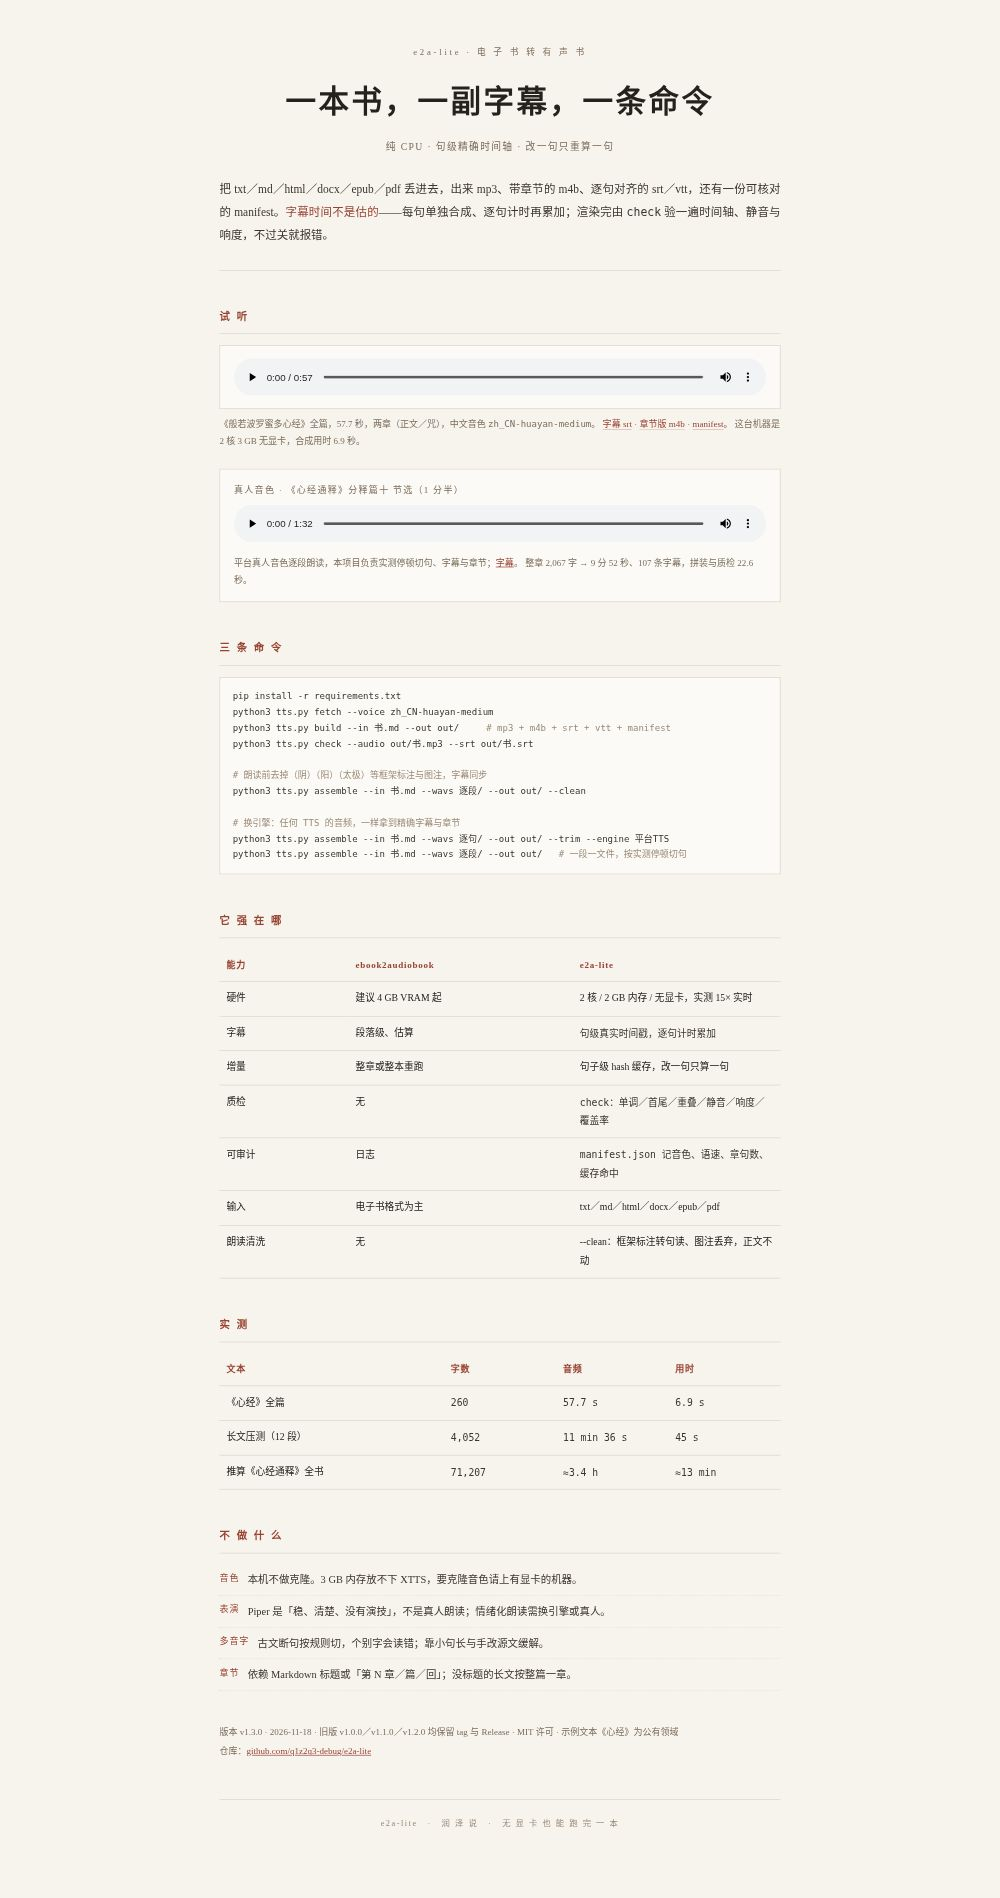
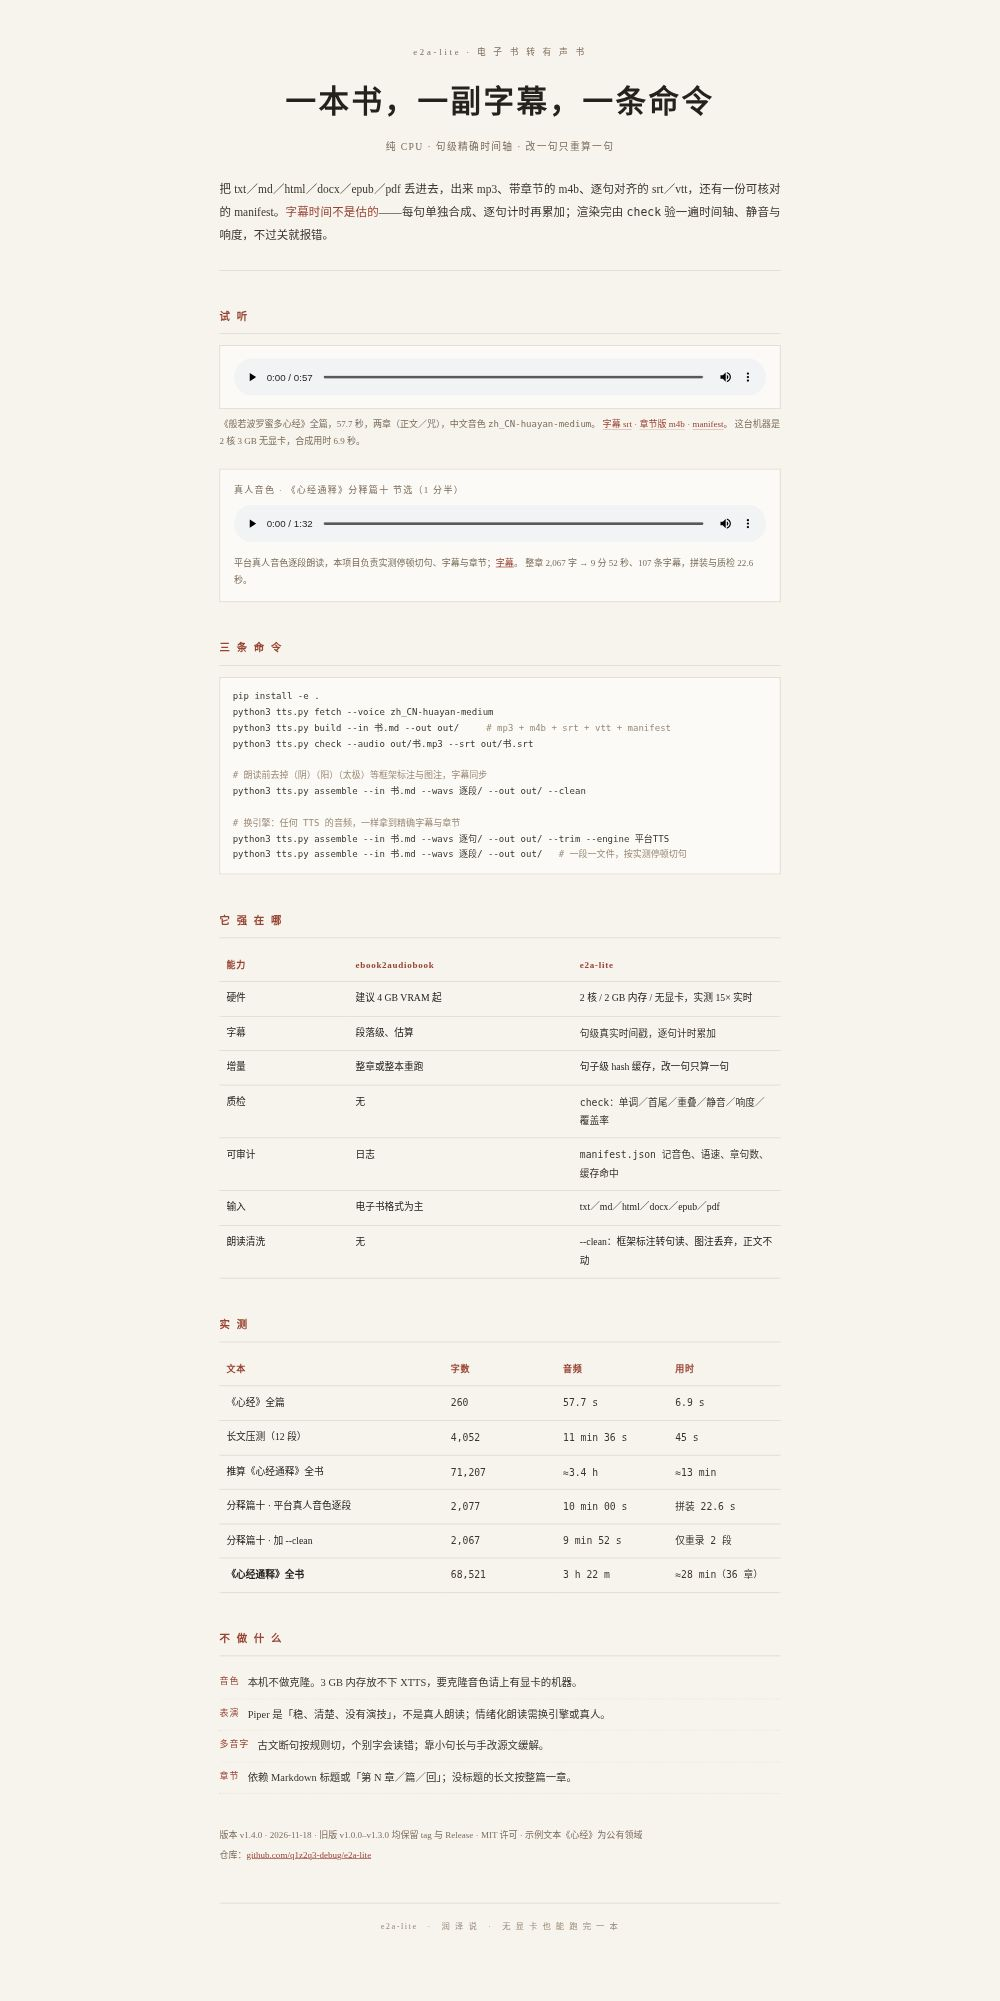
v1.5.0：新增 Edge 神经音色引擎
- 新子命令 edge：逐句合成、逐句真实时长、无 100 秒截断（平台 TTS 在 100s 处切半句，已弃用该路线）
- 四音色别名 + --rate 语速
- 四重退避重试、补静音兜底、纯符号句跳过、按句缓存断点续跑
- 实测《心经通释》2,815 句 / 4h29m / 35 章 / 响度 -17.9 dB

diff --git a/docs/index.html b/docs/index.html
@@ -103,7 +103,8 @@ python3 tts.py assemble --in 书.md --wavs 逐段/ --out out/   <span class="c">
     <tr><td>推算《心经通释》全书</td><td class="num">71,207</td><td class="num">≈3.4 h</td><td class="num">≈13 min</td></tr>
     <tr><td>分释篇十 · 平台真人音色逐段</td><td class="num">2,077</td><td class="num">10 min 00 s</td><td class="num">拼装 22.6 s</td></tr>
     <tr><td>分释篇十 · 加 --clean</td><td class="num">2,067</td><td class="num">9 min 52 s</td><td class="num">仅重录 2 段</td></tr>
-    <tr><td><b>《心经通释》全书</b></td><td class="num">68,521</td><td class="num">3 h 22 m</td><td class="num">≈28 min（36 章）</td></tr>
+    <tr><td>《心经通释》全书 · Piper</td><td class="num">68,521</td><td class="num">3 h 22 m</td><td class="num">≈28 min（36 章）</td></tr>
+    <tr><td><b>《心经通释》全书 · Edge 神经音色</b></td><td class="num">63,894</td><td class="num">4 h 29 m</td><td class="num">≈20 min（35 章）</td></tr>
   </table>
 
   <h2>不 做 什 么</h2>
@@ -114,7 +115,7 @@ python3 tts.py assemble --in 书.md --wavs 逐段/ --out out/   <span class="c">
     <li><i>章节</i>依赖 Markdown 标题或「第 N 章／篇／回」；没标题的长文按整篇一章。</li>
   </ul>
 
-  <div class="meta">版本 v1.4.0 · 2026-11-18 · 旧版 v1.0.0–v1.3.0 均保留 tag 与 Release · MIT 许可 · 示例文本《心经》为公有领域<br>
+  <div class="meta">版本 v1.5.0 · 2026-11-18 · 旧版 v1.0.0–v1.3.0 均保留 tag 与 Release · MIT 许可 · 示例文本《心经》为公有领域<br>
     仓库：<a href="https://github.com/q1z2q3-debug/e2a-lite" style="color:#994433">github.com/q1z2q3-debug/e2a-lite</a></div>
 
   <div class="foot">e2a-lite　·　润 泽 说　·　无 显 卡 也 能 跑 完 一 本</div>

diff --git a/tts.py b/tts.py
@@ -22,9 +22,10 @@ import shutil
 import subprocess
 import sys
 import wave
+from concurrent.futures import ThreadPoolExecutor, as_completed
 from pathlib import Path
 
-VERSION = "1.4.0"
+VERSION = "1.5.0"
 APP = "e2a-lite"
 SENT_RE = re.compile(r"[^。！？；…!?\n]+[。！？；…!?]?")
 CHAPTER_RE = re.compile(r"^(?:#{1,4}\s+.+|第[一二三四五六七八九十百零〇0-9]+[章篇回节部].*)$")
@@ -173,10 +174,20 @@ def clean_line(text: str) -> str:
     只动三类东西：`佛说A（阴）` 这类阴阳太极标注（改为句读）、`【…】` 降为普通文字、
     `*图…` 图注整段丢弃；正文一字不改。
     """
-    s = _FIG.sub("", text)
+    if "编注" in text[:12] or "**编注**" in text:
+        return ""  # 编辑说明不读
+    s = _FIG.sub("", text)  # 图注先整段丢弃
+    if not s.strip():
+        return ""
+    if re.match(r"^\s*!?\[图", text) or re.search(r"\]\(figures/", text):
+        return ""  # 图片链接不读
+    s = re.sub(r"^\s*[-*·•]\s+", "", s)  # 列表符不读
+    s = re.sub(r"^[>\s*]+", "", s)  # 引用符、强调符不读
+    s = s.replace("*", "")  # 星号强调不读
     s = _MARK.sub("，", s)
     s = _BRACKET.sub(r"\1", s)
     s = _EMPTY_PAREN.sub("", s)
+    s = s.replace("｜", "，").replace("|", "，")
     s = _DUP_PUNCT.sub(r"\1", s)
     s = _PUNCT_BEFORE.sub("", s)
     return _EDGE_PUNCT.sub("", s).strip()
@@ -184,7 +195,16 @@ def clean_line(text: str) -> str:
 
 def clean_chapters(chapters: list[dict]) -> list[dict]:
     for ch in chapters:
-        ch["lines"] = [c for c in (clean_line(l) for l in ch["lines"]) if c]
+        out = []
+        for l in ch["lines"]:
+            c = clean_line(l)
+            if not c:
+                continue
+            # 短标题（原文/般若深解/本节小结…）补一个停顿，免得读成一串
+            if len(c) <= 8 and c[-1] not in "。！？：，；、" and not c.endswith("》"):
+                c += "，"
+            out.append(c)
+        ch["lines"] = out
     return chapters
 
 
@@ -378,6 +398,91 @@ def _render(plan, chapters, outdir, book, artist, fmts, voice_name, speed,
     return manifest
 
 
+
+# ---------------------------------------------------------------- edge 引擎
+EDGE_VOICES = {
+    "xiaoxiao": "zh-CN-XiaoxiaoNeural",
+    "yunxi": "zh-CN-YunxiNeural",
+    "yunjian": "zh-CN-YunjianNeural",
+    "xiaoyi": "zh-CN-XiaoyiNeural",
+}
+
+
+def _edge_one(text: str, voice: str, rate: str, dst: Path) -> None:
+    """Edge 神经语音合成一句，落成 wav。"""
+    import asyncio, edge_tts
+    mp3 = dst.with_suffix(".mp3")
+
+    async def go():
+        c = edge_tts.Communicate(text, voice, rate=rate)
+        await c.save(str(mp3))
+
+    asyncio.run(go())
+    run(["ffmpeg", "-y", "-v", "quiet", "-i", str(mp3), "-ar", "24000", "-ac", "1", str(dst)])
+    mp3.unlink(missing_ok=True)
+
+
+def edge_build(args) -> dict:
+    """用 Edge 神经音色整本合成：逐句真实时长，字幕即句界。"""
+    src = Path(args.inp)
+    outdir = Path(args.out)
+    outdir.mkdir(parents=True, exist_ok=True)
+    book = args.title or src.stem
+    chapters = split_chapters(extract_text(src), book)
+    excl = getattr(args, "exclude", "") or ""
+    if excl:
+        pat = re.compile(excl)
+        chapters = [c for c in chapters if not pat.search(c["title"])]
+    if getattr(args, "clean", False):
+        chapters = clean_chapters(chapters)
+    voice = EDGE_VOICES.get(args.voice, args.voice)
+    cache = Path(args.cache) if args.cache else outdir / ".cache_edge"
+    cache.mkdir(parents=True, exist_ok=True)
+    jobs, plan, hits, misses = [], [], 0, 0
+    for ci, ch in enumerate(chapters):
+        for s in split_sentences(ch["lines"], args.max_len):
+            key = hashlib.sha1(f"edge|{voice}|{args.rate}|{s}".encode()).hexdigest()
+            wav = cache / f"{key}.wav"
+            if len(re.findall(r"[\u4e00-\u9fff]", s)) < 2:
+                if not _ok_wav(wav):
+                    _silent_wav(str(wav), 24000, 0.3)
+                hits += 1
+            elif _ok_wav(wav):
+                hits += 1
+            else:
+                jobs.append((s, str(wav), voice, args.rate))
+                misses += 1
+            plan.append((ci, s, wav))
+    print(f"[edge] {book}：{len(chapters)} 章 / {len(plan)} 句 / 待合成 {len(jobs)}（命中 {hits}）", flush=True)
+    if jobs:
+        def work(job):
+            import time
+            t, path, v, r = job
+            last = None
+            for k in range(4):
+                try:
+                    _edge_one(t, v, r, Path(path))
+                    return path, wav_duration(Path(path))
+                except Exception as e:
+                    last = e
+                    time.sleep(0.6 * (2 ** k))
+                    print(f"[edge] 重试 {k + 1}/4：{t[:12]}… ({str(e)[:40]})", flush=True)
+            print(f"[edge] 四次失败，补 0.6s 静音：{t[:16]}…", flush=True)
+            _silent_wav(path, 24000, 0.6)
+            return path, 0.6
+        with ThreadPoolExecutor(args.jobs) as pool:
+            futs = [pool.submit(work, j) for j in jobs]
+            for i, f in enumerate(as_completed(futs), 1):
+                f.result()
+                if i % 20 == 0 or i == len(jobs):
+                    print(f"[edge] 合成 {i}/{len(jobs)}", flush=True)
+    return _render(plan, chapters, outdir, book, args.artist, args.formats,
+                   args.engine, 1.0, hits, misses, engine=args.engine,
+                   cache=cache, src=src, clean_flag=getattr(args, "clean", False),
+                   br=getattr(args, "bitrate", "128k"),
+                   extras={"speed": 1.0, "voice": voice, "rate": args.rate,
+                           "sentence_timing": "measured"})
+
 # ---------------------------------------------------------------- assemble
 def silence_points(path: Path, noise: str = "-38dB", min_dur: float = 0.12) -> list[tuple[float, float]]:
     """返回音频里的静音区间 [(start, end), ...]，用 ffmpeg silencedetect 实测。"""
@@ -466,10 +571,34 @@ def assemble(args) -> dict:
     measured_all = True
 
     mode = "auto" if args.cue_mode == "auto" else args.cue_mode
+    blocks = []
+    if getattr(args, "blocks", ""):
+        blocks = json.loads(Path(args.blocks).read_text(encoding="utf-8"))
+        mode = "block"
     if mode == "auto":
         mode = "paragraph" if len(files) == len(paras) else "sentence"
 
-    if mode == "sentence" and len(files) == len(sents):
+    if mode == "block":
+        if len(files) != len(blocks):
+            print(f"[assemble] 音频 {len(files)} 个，块表 {len(blocks)} 个；请核对")
+            return 2
+        plan = []
+        for k, (blk, f) in enumerate(zip(blocks, files), 1):
+            i0, n = blk["start"], blk["count"]
+            cues = [t for _, t in sents[i0:i0 + n]]
+            ci = sents[i0][0]
+            dur = ffprobe_duration(f)
+            sil = silence_points(f)
+            spans, measured = _align(dur, cues, sil)
+            measured_all = measured_all and measured
+            pieces = work / f"b{k:03d}"
+            pieces.mkdir(exist_ok=True)
+            for j, ((t0, t1), cue) in enumerate(zip(spans, cues), 1):
+                piece = pieces / f"{j:02d}.wav"
+                _slice(f, t0, t1, piece)
+                plan.append((ci, cue, piece))
+        mode = "block"
+    elif mode == "sentence" and len(files) == len(sents):
         plan = [(ci, t, f) for (ci, t), f in zip(sents, files)]
         mode = "sentence"
     elif mode == "paragraph" and len(files) == len(paras):
@@ -677,12 +806,30 @@ def main() -> int:
     a.add_argument("--max-len", type=int, default=70)
     a.add_argument("--clean", action="store_true", help="朗读前清洗框架标注（字幕同步使用清洗后文本）")
     a.add_argument("--bitrate", default="128k")
+    a.add_argument("--blocks", default="", help="块表 JSON：每块对应一个音频文件，块内按停顿切句")
     a.add_argument("--trim", action="store_true", help="削掉句首句尾静音")
     a.add_argument("--cue-mode", choices=["auto", "sentence", "paragraph"], default="auto",
                    help="音频与文本的对应粒度：一句一文件 / 一段一文件")
     a.add_argument("--align", choices=["silence", "none"], default="silence",
                    help="逐段音频时，用实测停顿切句（默认）还是整段作一条")
     a.set_defaults(func=assemble)
+
+    ed = sub.add_parser("edge", help="用 Edge 神经音色整本合成（逐句真实时长）")
+    ed.add_argument("--in", dest="inp", required=True)
+    ed.add_argument("--out", required=True)
+    ed.add_argument("--title", default=None)
+    ed.add_argument("--voice", default="xiaoxiao", help="xiaoxiao/yunxi/yunjian/xiaoyi 或完整音色名")
+    ed.add_argument("--rate", default="-8%", help="语速，如 -8%% / +0%%")
+    ed.add_argument("--max-len", type=int, default=70)
+    ed.add_argument("--jobs", type=int, default=4)
+    ed.add_argument("--formats", default="mp3,m4b,srt,vtt")
+    ed.add_argument("--artist", default="润泽说")
+    ed.add_argument("--engine", default="edge")
+    ed.add_argument("--bitrate", default="128k")
+    ed.add_argument("--clean", action="store_true")
+    ed.add_argument("--exclude", default="")
+    ed.add_argument("--cache", default=None)
+    ed.set_defaults(func=edge_build)
 
     sp = sub.add_parser("split", help="按章节把整本音频切成单章")
     sp.add_argument("--audio", required=True)

diff --git a/tests/test_core.py b/tests/test_core.py
@@ -137,3 +137,13 @@ class TestChapterHierarchy(unittest.TestCase):
         text = "# 甲\n\n一。\n\n# 乙\n\n二。\n"
         ch = tts.split_chapters(text, "书")
         self.assertEqual([c["title"] for c in ch], ["甲", "乙"])
+
+
+class TestEdgeEngine(unittest.TestCase):
+    def test_voice_aliases(self):
+        self.assertEqual(tts.EDGE_VOICES["xiaoxiao"], "zh-CN-XiaoxiaoNeural")
+        self.assertIn("yunxi", tts.EDGE_VOICES)
+
+    def test_edge_block_rules(self):
+        # 纯符号句不该发请求：中文少于 2 字的判定
+        self.assertLess(len(tts.re.findall(r"[\u4e00-\u9fff]", "--- ，--")), 2)

diff --git a/CHANGELOG.md b/CHANGELOG.md
@@ -44,3 +44,12 @@
 - 句子级容错：极短或全符号句子会让 piper 不写 WAV 头（`# channels not specified`），现在先写死声道与采样率、失败补 50 ms 静音，单句异常不再中断整本。
 - 缓存自检：`build` 前校验缓存 WAV 是否可读（>20 ms），损坏的自动重合成，不用手动清缓存。
 - 实测：36 章 / 2,879 句 / 3 小时 22 分 34 秒音频；2,879 条字幕，覆盖率 100%，峰值 -0.3 dB，长静音 0 处；整本合成约 28 分钟（2 进程，2 核 3 GB，无显卡）。
+
+## v1.5.0 · 2026-11-18
+
+**第二个引擎：Edge 神经音色。**
+
+- 新增 `edge` 子命令：`edge-tts` 逐句合成，逐句真实时长，无 100 秒上限（平台 TTS 到 100 秒会截断，450 字块被切在半句，这条路已放弃）。
+- 四音色：`xiaoxiao`（默认，女声温润）、`yunxi`、`yunjian`、`xiaoyi`；`--rate=-8%` 放慢语速。
+- 失败四重退避 + 补静音兜底；纯符号句不发请求；断点续跑按句缓存。
+- 实测：《心经通释》2,815 句 / 4 小时 29 分 45 秒 / 35 章；响度归一到 -17.9 dB、峰值 -1.2 dB。
